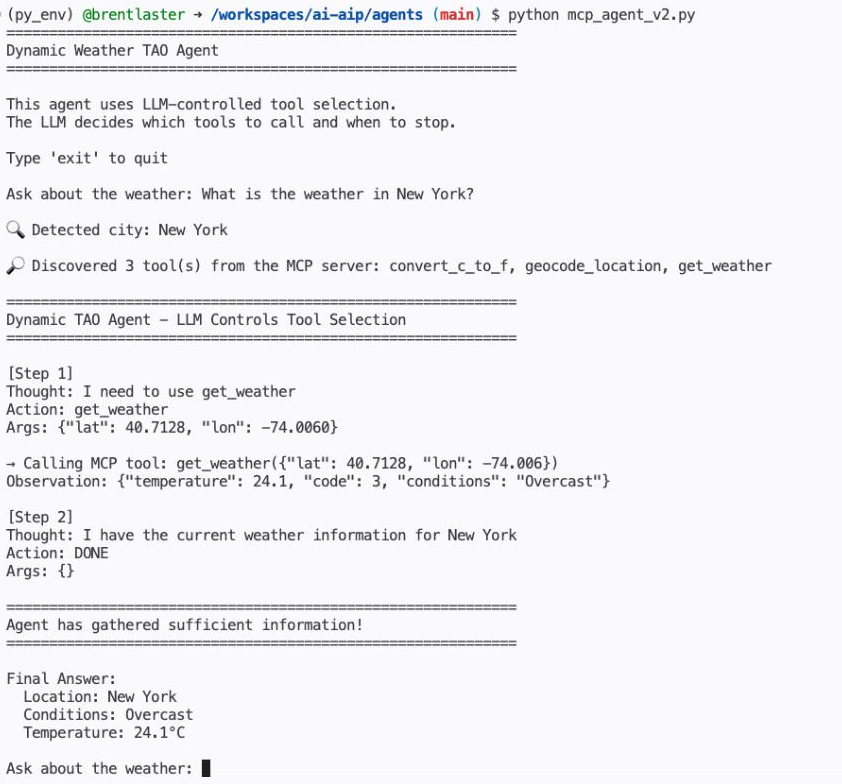
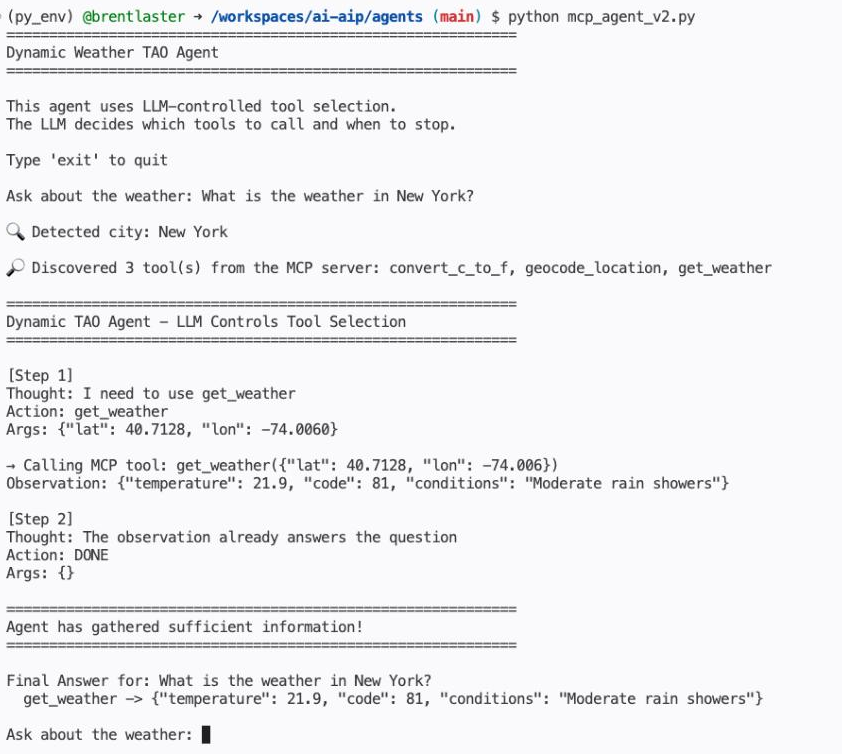
updates for lab 2

Changed region(s): [[0.0, 0.0, 0.9264, 1.0], [0.8337, 0.6101, 0.8646, 0.6406]]

diff --git a/agents/mcp_agent_v2.py b/agents/mcp_agent_v2.py
@@ -91,15 +91,10 @@ def extract_city(prompt: str) -> Optional[str]:
         print("Dynamic TAO Agent - LLM Controls Tool Selection")
         print("="*60 + "\n")
 
-        # Store context for final answer
-        context = {
-            "city": city,
-            "latitude": None,
-            "longitude": None,
-            "temperature_c": None,
-            "temperature_f": None,
-            "conditions": None,
-        }
+        # What the agent has learned so far: (tool name, result) per call.
+        # Deliberately NOT a fixed set of weather fields - the agent does not
+        # know in advance which tools the server will advertise.
+        gathered = []
 
         for step in range(1, max_steps + 1):
             print(f"[Step {step}]")
@@ -111,18 +106,14 @@ def extract_city(prompt: str) -> Optional[str]:
                 print("Agent has gathered sufficient information!")
                 print("="*60)
 
-                # Generate final summary
-                if context["temperature_f"] is not None:
-                    temp_display = f"{context['temperature_f']:.1f}°F"
-                elif context["temperature_c"] is not None:
-                    temp_display = f"{context['temperature_c']:.1f}°C"
-                else:
-                    temp_display = "Unknown"
-
-                print(f"\nFinal Answer:")
-                print(f"  Location: {context.get('location_name', city)}")
-                print(f"  Conditions: {context['conditions'] or 'Unknown'}")
-                print(f"  Temperature: {temp_display}")
+                # Report what the agent actually collected. Nothing here names a
+                # specific tool, so this works for whatever the server advertises -
+                # including a tool added long after this code was written.
+                print(f"\nFinal Answer for: {question}")
+                for name, value in gathered:
+                    print(f"  {name} -> {json.dumps(value) if isinstance(value, dict) else value}")
+                if not gathered:
+                    print("  (no tools were called)")
                 return
 
 
@@ -156,22 +147,11 @@ def extract_city(prompt: str) -> Optional[str]:
                 messages.append({"role": "user", "content": f"Observation: {result}"})
                 continue
 
-            # Store relevant data in context
-            if action == "geocode_location" and isinstance(result, dict):
-                context["latitude"] = result.get("latitude")
-                context["longitude"] = result.get("longitude")
-                context["location_name"] = result.get("name", city)
-            elif action == "get_weather" and isinstance(result, dict):
-                context["temperature_c"] = result.get("temperature")
-                context["conditions"] = result.get("conditions")
-            elif action == "convert_c_to_f":
-                context["temperature_f"] = float(result)
         # Max steps reached
         print(f"\n⚠  Reached maximum steps ({max_steps}) without completion")
         print("Partial information gathered:")
-        for key, value in context.items():
-            if value is not None:
-                print(f"  {key}: {value}")
+        for name, value in gathered:
+            print(f"  {name} -> {value}")
 
 # ╔══════════════════════════════════════════════════════════════════╗
 # ║ 6.  Interactive REPL                                             ║
@@ -195,5 +175,5 @@ if __name__ == "__main__":
             continue
 
         print(f"\n🔍 Detected city: {city}")
-        asyncio.run(run_dynamic(city))
+        asyncio.run(run_dynamic(city, raw_prompt))
         print()

diff --git a/labs.md b/labs.md
@@ -1,7 +1,7 @@
 # Implementing AI Agents in Python
 ## Using frameworks, MCP, and RAG for agentic AI
 ## Session labs 
-## Revision 1.22 - 07/29/26
+## Revision 1.23 - 07/29/26
 
 **Follow the startup instructions in the README.md file IF NOT ALREADY DONE!**
 
@@ -205,7 +205,7 @@ python mcp_agent_v2.py
 
 <br><br>
 
-8. The agent will start up and wait for you to prompt it about weather in a location. A suggested prompt is below. As soon as you enter it, the agent picks the city out of your question and then opens its MCP connection - printing the `Discovered 3 tool(s) from the MCP server` line - the agent learned its tools from the server rather than having them hardcoded. After that you'll be able to see similar TAO output. (The LLM decides which of the discovered tools it actually needs, so your run may skip one - for example supplying coordinates itself instead of calling *geocode_location*, or reporting °C instead of calling *convert_c_to_f*. That's the agent choosing, not an error.) And you'll also be able to see the server INFO messages in the other terminal as the MCP connections and events happen.
+8. The agent will start up and wait for you to prompt it about weather in a location. A suggested prompt is below. As soon as you enter it, the agent picks the city out of your question and then opens its MCP connection - printing the `Discovered 3 tool(s) from the MCP server` line - the agent learned its tools from the server rather than having them hardcoded. After that you'll be able to see similar TAO output. (The LLM decides which of the discovered tools it actually needs, so your run may use a different set than the screenshot - that's the agent choosing, not an error. The **Final Answer** lists each tool the agent called and what it returned.) And you'll also be able to see the server INFO messages in the other terminal as the MCP connections and events happen.
 
 ```
 What is the weather in New York?
@@ -248,16 +248,24 @@ def get_forecast(lat: float, lon: float) -> dict:
 python mcp_server_v2.py
 ```
 
-Then, in the second terminal, run the two commands below and prompt the agent about the weather in a city again.
+Then, in the second terminal, run the two commands below.
 
 ```
 python ../scripts/discover_tools.py
 python mcp_agent_v2.py
 ```
 
-The discovery script now lists **four** tools, and when you prompt the agent it reports `Discovered 4 tool(s)` with *get_forecast* among them - the new tool flowed straight from the server into the agent's prompt. That is the payoff of MCP discovery: change the server, and every agent that connects picks up the change automatically. (You can let the loop finish, or just `CTRL-C` once you've seen the discovery line.) When you're done, use 'exit' to stop the client and `CTRL-C` to stop the server.
+The discovery script now lists **four** tools, and when you prompt the agent it reports `Discovered 4 tool(s)` with *get_forecast* among them. Now ask the agent something that needs the new tool:
 
-![Agent discovering the new tool](./images/aip66.png?raw=true "Agent discovering the new tool")
+```
+What is tomorrow's forecast for New York?
+```
+
+Watch the TAO trace: the agent works out the coordinates, then calls `get_forecast` - a tool that did not exist the last time you ran this agent - and the **Final Answer** lists `get_forecast` along with the high and low it returned. That is the payoff of MCP discovery: **you added a tool to the server and the agent found it, understood its arguments, and used it - without a single change to the agent's code.** When you're done, use 'exit' to stop the client and `CTRL-C` to stop the server.
+
+![Agent using the newly discovered tool](./images/aip71.png?raw=true "Agent using the newly discovered tool")
+
+![Final answer including the new tool](./images/aip70.png?raw=true "Final answer including the new tool")
     
 <p align="center">
 **[END OF LAB]**
